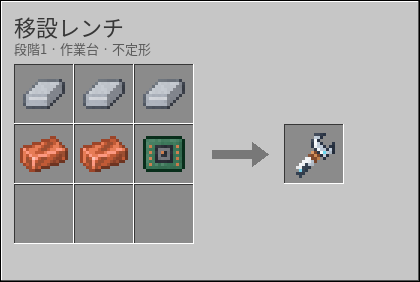
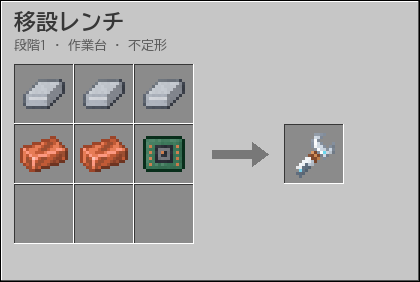
Wrench cable mode removes cables quickly; lighter jaws show on the hotbar
Sneak-use in the air switches between relocating devices and removing cables.
In cable mode a use takes one cable back, a sneak-use takes up to 64 joined
cables of the same kind, and left-click breaks cables instantly. The near-black
jaws are now light grey, and the status lights turn amber in cable mode.

Changed region(s): [[0.031, 0.0284, 0.4024, 0.1986], [0.7429, 0.4539, 0.8048, 0.5674], [0.7119, 0.5674, 0.7429, 0.6241]]

diff --git a/src/main/java/io/github/genichimaruo/singulo/item/RelocationWrenchItem.java b/src/main/java/io/github/genichimaruo/singulo/item/RelocationWrenchItem.java
@@ -10,8 +10,18 @@ import net.minecraft.world.item.context.UseOnContext;
 import net.minecraft.world.level.block.Block;
 import net.minecraft.world.level.block.Blocks;
 
-/** Relocates processing machines whose complete state is saved by MachineBlockEntity. */
+/**
+ * Relocates processing machines whose complete state is saved by MachineBlockEntity.
+ *
+ * <p>Two modes, switched by sneak-using the wrench in the air: relocation (sneak-use a device to pack it) and
+ * cable removal (use a cable to take it back at once, sneak-use to take the whole connected run of that cable,
+ * and left-click breaks cables instantly).
+ */
 public final class RelocationWrenchItem extends SinguloItem {
+    public static final int MODE_RELOCATE = 0, MODE_CABLE = 1;
+    private static final String MODE_KEY = "wrench_mode";
+    /** Upper bound for one sneak-use in cable mode, so a huge grid is not removed by accident. */
+    public static final int MAX_CABLE_RUN = 64;
     // Explicitly audited save/load pairs. Do not infer support from arbitrary block inheritance.
     private static final java.util.Set<Class<?>> DEVICES = java.util.Set.of(
             ThermoelectricGeneratorBlockEntity.class, SmesCellBlockEntity.class, SmesCellBlockEntity.Module.class,
@@ -25,11 +35,55 @@ public final class RelocationWrenchItem extends SinguloItem {
         super(properties.stacksTo(1), stage, false);
     }
 
+    public static int mode(ItemStack wrench) {
+        var data = wrench.get(DataComponents.CUSTOM_DATA);
+        return data != null && data.copyTag().getInt(MODE_KEY) == MODE_CABLE ? MODE_CABLE : MODE_RELOCATE;
+    }
+
+    public static void setMode(ItemStack wrench, int mode) {
+        net.minecraft.world.item.component.CustomData.update(DataComponents.CUSTOM_DATA, wrench, t -> t.putInt(MODE_KEY, mode));
+    }
+
+    /** Sneak-use in the air switches the mode. */
+    @Override
+    public net.minecraft.world.InteractionResultHolder<ItemStack> use(net.minecraft.world.level.Level level,
+            net.minecraft.world.entity.player.Player player, net.minecraft.world.InteractionHand hand) {
+        ItemStack wrench = player.getItemInHand(hand);
+        if (!player.isSecondaryUseActive()) return net.minecraft.world.InteractionResultHolder.pass(wrench);
+        if (!level.isClientSide) {
+            int next = mode(wrench) == MODE_CABLE ? MODE_RELOCATE : MODE_CABLE;
+            setMode(wrench, next);
+            player.displayClientMessage(Component.translatable("item.singulo.relocation_wrench.mode." + next), true);
+            level.playSound(null, player.blockPosition(), net.minecraft.sounds.SoundEvents.UI_BUTTON_CLICK.value(),
+                    net.minecraft.sounds.SoundSource.PLAYERS, 0.4F, next == MODE_CABLE ? 1.4F : 1.0F);
+        }
+        return net.minecraft.world.InteractionResultHolder.sidedSuccess(wrench, level.isClientSide);
+    }
+
+    /** Cable mode breaks cables instantly with a left click. */
+    @Override
+    public float getDestroySpeed(ItemStack wrench, net.minecraft.world.level.block.state.BlockState state) {
+        return mode(wrench) == MODE_CABLE && state.getBlock() instanceof io.github.genichimaruo.singulo.cable.CableBlock
+                ? 1000F : super.getDestroySpeed(wrench, state);
+    }
+
+    @Override
+    public void appendHoverText(ItemStack stack, TooltipContext context, java.util.List<Component> tooltip,
+                                net.minecraft.world.item.TooltipFlag flag) {
+        super.appendHoverText(stack, context, tooltip, flag);
+        int mode = mode(stack);
+        tooltip.add(Component.translatable("item.singulo.relocation_wrench.mode." + mode)
+                .withStyle(mode == MODE_CABLE ? net.minecraft.ChatFormatting.GOLD : net.minecraft.ChatFormatting.AQUA));
+        tooltip.add(Component.translatable("item.singulo.relocation_wrench.hint." + mode).withStyle(net.minecraft.ChatFormatting.GRAY));
+        tooltip.add(Component.translatable("item.singulo.relocation_wrench.switch").withStyle(net.minecraft.ChatFormatting.DARK_GRAY));
+    }
+
     @Override
     public InteractionResult onItemUseFirst(ItemStack wrench, UseOnContext context) {
         var player = context.getPlayer();
         var level = context.getLevel();
         var pos = context.getClickedPos();
+        if (player != null && mode(wrench) == MODE_CABLE) return removeCables(wrench, context);
         if (player == null || !player.isSecondaryUseActive()) return InteractionResult.PASS;
         var be = level.getBlockEntity(pos);
         if (!(be instanceof MachineBlockEntity) && (be == null || !DEVICES.contains(be.getClass()))) return InteractionResult.PASS;
@@ -72,5 +126,63 @@ public final class RelocationWrenchItem extends SinguloItem {
         }
         player.displayClientMessage(Component.translatable("item.singulo.relocation_wrench.packed"), true);
         return InteractionResult.CONSUME;
+    }
+
+    /**
+     * Cable mode: use takes back the clicked cable, sneak-use the connected run of the same cable (up to
+     * {@link #MAX_CABLE_RUN}). The cables go straight into the inventory (dropped at the player when full);
+     * creative players get nothing back, as with breaking.
+     */
+    private static InteractionResult removeCables(ItemStack wrench, UseOnContext context) {
+        var player = context.getPlayer();
+        var level = context.getLevel();
+        var start = context.getClickedPos();
+        var state = level.getBlockState(start);
+        if (!(state.getBlock() instanceof io.github.genichimaruo.singulo.cable.CableBlock cable)) return InteractionResult.PASS;
+        if (!player.mayBuild() || !level.mayInteract(player, start)
+                || !player.mayUseItemAt(start, context.getClickedFace(), wrench)) return InteractionResult.FAIL;
+        if (level.isClientSide) return InteractionResult.SUCCESS;
+        java.util.List<net.minecraft.core.BlockPos> run = player.isSecondaryUseActive()
+                ? connectedRun(level, start, cable) : java.util.List.of(start);
+        int removed = 0;
+        for (var pos : run) {
+            if (!level.mayInteract(player, pos)) continue;
+            level.removeBlock(pos, false);
+            removed++;
+        }
+        if (removed == 0) return InteractionResult.FAIL;
+        level.playSound(null, start, state.getSoundType(level, start, player).getBreakSound(),
+                net.minecraft.sounds.SoundSource.BLOCKS, 1.0F, 1.0F);
+        if (!player.getAbilities().instabuild) {
+            int left = removed;
+            while (left > 0) {
+                ItemStack back = new ItemStack(cable, Math.min(left, 64));
+                left -= back.getCount();
+                if (!player.getInventory().add(back) && !back.isEmpty()) player.drop(back, false);
+            }
+        }
+        if (run.size() > 1) {
+            player.displayClientMessage(Component.translatable("item.singulo.relocation_wrench.cables_removed", removed), true);
+        }
+        return InteractionResult.CONSUME;
+    }
+
+    /** The cables of the same kind joined to start (breadth first, so the nearest go first when capped). */
+    public static java.util.List<net.minecraft.core.BlockPos> connectedRun(net.minecraft.world.level.Level level,
+            net.minecraft.core.BlockPos start, Block cable) {
+        java.util.List<net.minecraft.core.BlockPos> out = new java.util.ArrayList<>();
+        java.util.Set<net.minecraft.core.BlockPos> seen = new java.util.HashSet<>();
+        java.util.ArrayDeque<net.minecraft.core.BlockPos> queue = new java.util.ArrayDeque<>();
+        queue.add(start);
+        seen.add(start);
+        while (!queue.isEmpty() && out.size() < MAX_CABLE_RUN) {
+            var pos = queue.poll();
+            out.add(pos);
+            for (var dir : net.minecraft.core.Direction.values()) {
+                var next = pos.relative(dir);
+                if (seen.add(next) && level.getBlockState(next).is(cable)) queue.add(next);
+            }
+        }
+        return out;
     }
 }

diff --git a/tools/gen_data.py b/tools/gen_data.py
@@ -542,6 +542,12 @@ UI_LANG = {
     'gui.singulo.reactor.recaptured': ('野良ブラックホールを炉心に取り込んだ', 'The rogue black hole is now the core'),
     'block.singulo.rogue_black_hole': ('野良ブラックホール', 'Rogue Black Hole'),
     'item.singulo.relocation_wrench.packed': ('中身と設定を保持して回収した', 'Device packed with contents and settings'),
+    'item.singulo.relocation_wrench.cables_removed': ('ケーブルを %s 本回収した', 'Took back %s cables'),
+    'item.singulo.relocation_wrench.switch': ('スニークして空中で使うとモードを切り替える', 'Sneak-use in the air to switch modes.'),
+    'item.singulo.relocation_wrench.hint.1': ('ケーブルに使うと1本回収、スニークして使うとつながった同じケーブルを最大64本まとめて回収。左クリックでもすぐ壊せる', 'Use on a cable to take it back; sneak-use to take up to 64 joined cables of that kind. Left-click also breaks cables at once.'),
+    'item.singulo.relocation_wrench.hint.0': ('スニークして装置に使うと、中身と設定ごと回収する', 'Sneak-use on a device to pack it with its contents and settings.'),
+    'item.singulo.relocation_wrench.mode.1': ('モード: ケーブルの撤去', 'Mode: remove cables'),
+    'item.singulo.relocation_wrench.mode.0': ('モード: 装置の移設', 'Mode: relocate devices'),
     'tooltip.singulo.packed_device': ('中身・電力・設定を保持', 'Contents, energy and settings preserved'),
     'item.singulo.settings_card.copied': ('設定を写した', 'Settings copied'),
     'item.singulo.settings_card.pasted': ('設定を貼った', 'Settings pasted'),
@@ -1628,9 +1634,14 @@ def models():
         else:
             if iid in BLACK_HOLE_ITEMS or iid in ('explorer_compass', 'meteor_compass', 'graviton_manipulator'):
                 continue                                       # 立体のモデル・針のモデルは別に作る
-            write_json(ASSETS / 'models' / 'item' / f'{iid}.json',
-                       {'parent': 'minecraft:item/handheld' if iid == 'relocation_wrench' else 'minecraft:item/generated',
-                        'textures': {'layer0': f'{MODID}:item/{iid}'}})
+            model = {'parent': 'minecraft:item/handheld' if iid == 'relocation_wrench' else 'minecraft:item/generated',
+                     'textures': {'layer0': f'{MODID}:item/{iid}'}}
+            if iid == 'relocation_wrench':
+                # ケーブル撤去モード（singulo:mode = 1）は表示灯が橙の絵
+                model['overrides'] = [{'predicate': {f'{MODID}:mode': 1}, 'model': f'{MODID}:item/relocation_wrench_cable'}]
+                write_json(ASSETS / 'models' / 'item' / 'relocation_wrench_cable.json',
+                           {'parent': 'minecraft:item/handheld', 'textures': {'layer0': f'{MODID}:item/relocation_wrench_cable'}})
+            write_json(ASSETS / 'models' / 'item' / f'{iid}.json', model)
     blocks_extra.models(write_json, ASSETS)
     import blocks_extra3
     blocks_extra3.models(write_json, ASSETS)
@@ -2061,6 +2072,9 @@ def art_textures():
             art16.save(art16.item_texture(iid, stage_of(name)), ti / f'{iid}.png')
             if iid in art.ITEM_ART:
                 art.save(art.item_texture(iid, stage_of(name)), hi / f'{iid}.png')
+    # 移設レンチのケーブル撤去モード（表示灯が橙）
+    art16.save(art16.grain(art16.relocation_wrench(cable=True), seed=art16.stable_hash('relocation_wrench') % 1000),
+               ti / 'relocation_wrench_cable.png')
     # ケーブルの被覆（電力が流れている間の芯の色つき）
     for iid, core in CABLES.items():
         art16.save(art16.cable_texture(iid, core), tb / f'{iid}.png')

diff --git a/tools/art16.py b/tools/art16.py
@@ -2547,22 +2547,28 @@ def cable_end(iid, core, on=False, glow=None):
     return im
 
 
-def relocation_wrench():
-    """Ceramic service wrench: open steel jaws, copper collar, dark grip and cyan status light."""
+def relocation_wrench(cable=False):
+    """Ceramic service wrench: open steel jaws, copper collar, slate grip and a status light.
+
+    The jaws are light grey rather than near-black so the head stays visible on the dark hotbar.
+    cable=True is the cable-removal mode: the status lights turn amber.
+    """
     im, d = new()
+    light = (255, 178, 74, 255) if cable else (118, 211, 239, 255)
+    light_hi = (255, 206, 120, 255) if cable else (106, 222, 246, 255)
     # Diagonal handle, outlined so it stays readable against snow and machine casings.
-    d.line([(3, 13), (10, 6)], fill=(40, 48, 62, 255), width=5)
+    d.line([(3, 13), (10, 6)], fill=(86, 97, 112, 255), width=5)
     d.line([(3, 13), (10, 6)], fill=(188, 198, 210, 255), width=3)
     d.line([(3, 12), (7, 8)], fill=(242, 245, 248, 255), width=2)
-    d.line([(3, 14), (6, 11)], fill=(54, 67, 83, 255), width=2)
-    d.point((3, 13), fill=(118, 211, 239, 255))
+    d.line([(3, 14), (6, 11)], fill=(98, 112, 128, 255), width=2)
+    d.point((3, 13), fill=light)
     d.line([(7, 7), (9, 9)], fill=(129, 74, 45, 255), width=3)
     d.line([(7, 7), (9, 9)], fill=(215, 144, 86, 255), width=1)
     # Open-ended head; transparent mouth, never a solid hammer silhouette.
     d.polygon([(8, 1), (11, 1), (9, 3), (12, 6), (14, 4), (14, 7),
-               (11, 9), (7, 5), (7, 3)], fill=(42, 52, 68, 255))
+               (11, 9), (7, 5), (7, 3)], fill=(132, 143, 157, 255))
     d.polygon([(8, 2), (9, 2), (8, 3), (12, 7), (13, 6), (13, 7),
-               (11, 8), (8, 5)], fill=(192, 204, 217, 255))
-    d.line([(8, 3), (8, 5), (10, 7)], fill=(246, 249, 251, 255))
-    d.point((11, 7), fill=(106, 222, 246, 255))
+               (11, 8), (8, 5)], fill=(206, 216, 227, 255))
+    d.line([(8, 3), (8, 5), (10, 7)], fill=(250, 252, 253, 255))
+    d.point((11, 7), fill=light_hi)
     return im

diff --git a/src/main/java/io/github/genichimaruo/singulo/client/SinguloClient.java b/src/main/java/io/github/genichimaruo/singulo/client/SinguloClient.java
@@ -279,6 +279,10 @@ public final class SinguloClient {
                 io.github.genichimaruo.singulo.registry.SinguloItems.AREA_CARD.get(), Singulo.id("recorded"),
                 (stack, level, entity, seed) -> io.github.genichimaruo.singulo.android.work.AreaCardItem.box(stack) != null ? 1
                         : io.github.genichimaruo.singulo.android.work.AreaCardItem.first(stack) != null ? 0.5F : 0));
+        // 移設レンチ: ケーブル撤去モードは表示灯が橙の絵
+        event.enqueueWork(() -> net.minecraft.client.renderer.item.ItemProperties.register(
+                io.github.genichimaruo.singulo.registry.SinguloItems.RELOCATION_WRENCH.get(), Singulo.id("mode"),
+                (stack, level, entity, seed) -> io.github.genichimaruo.singulo.item.RelocationWrenchItem.mode(stack)));
         event.enqueueWork(() -> net.minecraft.client.renderer.item.ItemProperties.register(
                 io.github.genichimaruo.singulo.registry.SinguloItems.EXPLORER_COMPASS.get(), ResourceLocation.withDefaultNamespace("angle"),
                 new net.minecraft.client.renderer.item.CompassItemPropertyFunction((level, stack, entity) ->
